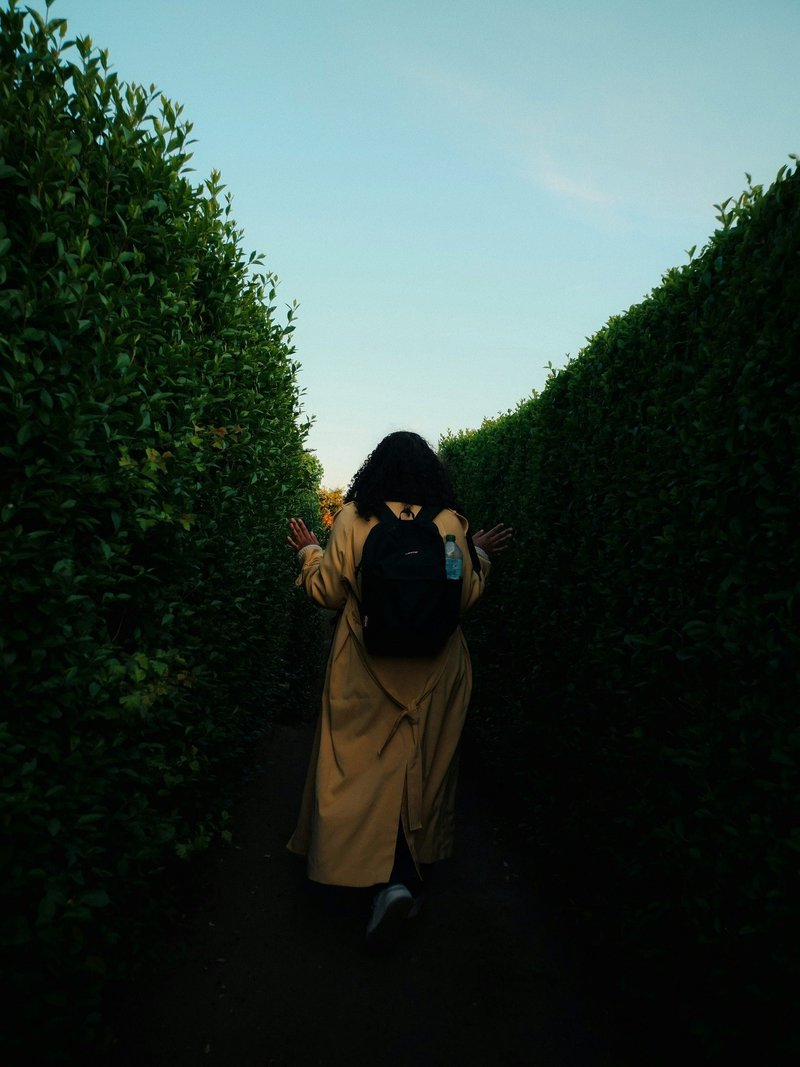
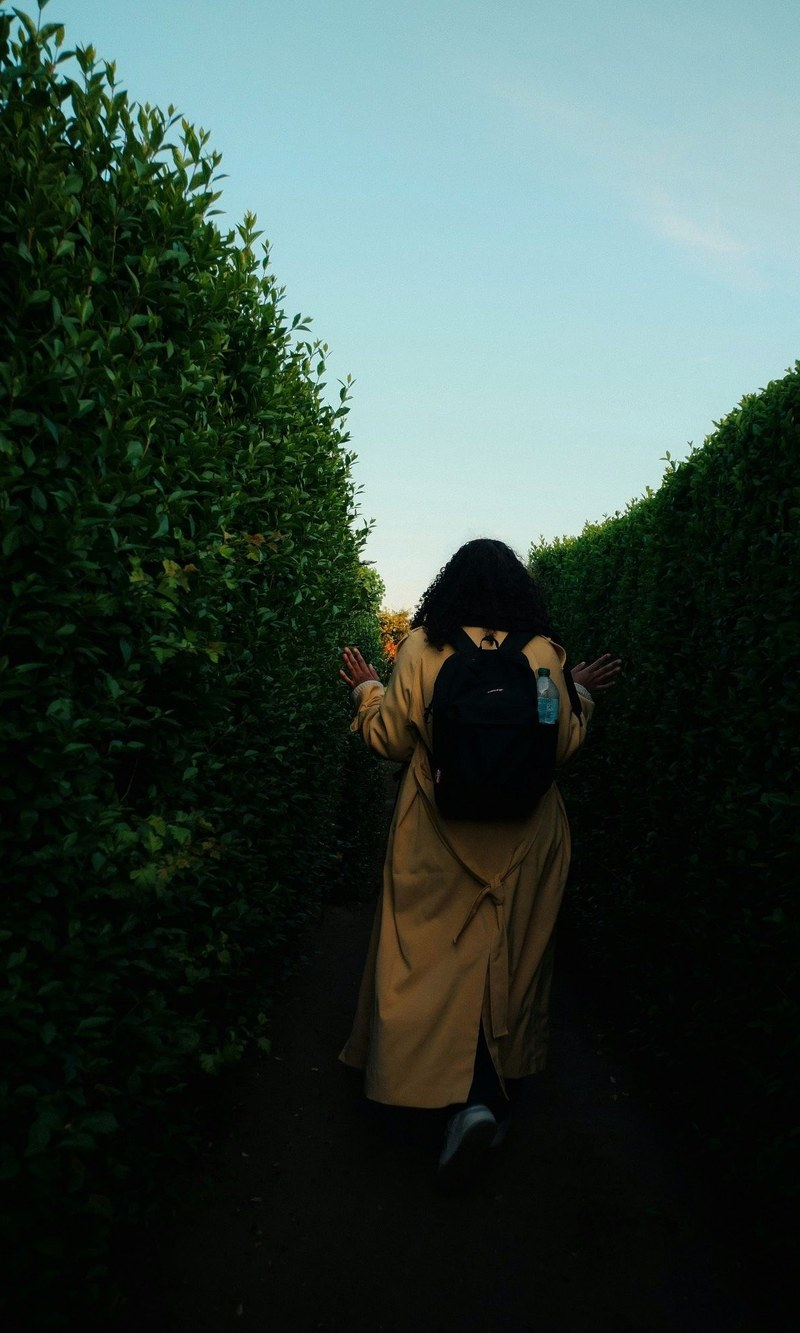
Labyrinth: woman centred by crop, headline top right in the sky

diff --git a/styles.css b/styles.css
@@ -215,13 +215,11 @@ a.card:hover /* Each card carries its page's headline on the photo, as the page 
 .photo-title.hl span { background: var(--pink); color: var(--white); padding: 0 0.16em; -webkit-box-decoration-break: clone; box-decoration-break: clone; }
 
 /* Per photo, mobile first then desktop. Each headline is set as large as its open space allows. */
-.ph-labyrinth .photo-title { top: var(--inset); bottom: auto; left: 57%; transform: translateX(-50%); text-align: center; width: max-content; font-size: 26px; } /* the only exception: the maze's sky is narrow on phones */
 .ph-pillars .photo-title { top: var(--inset); bottom: auto; transform: none; } /* caryatids: in the open sky top left */
 .ph-sisyphus .photo-title { top: var(--inset); bottom: auto; max-width: 6.6em; }
 .ph-ships .photo-title { top: var(--inset); bottom: auto; left: auto; right: var(--inset); text-align: right; } /* top right, clear of the moon */
 .ph-crossroads .photo-title { left: 50%; top: 50%; bottom: auto; transform: translate(-50%, -50%); text-align: center; width: max-content; }
 .ph-404 .photo-title { top: var(--inset); bottom: auto; }
-.pos-labyrinth { object-position: 50% 6%; }
 .pos-pillars { object-position: 0% 0%; }
 .pos-sisyphus { object-position: 30% 50%; }
 .pos-plane { object-position: 50% 58%; }
@@ -230,10 +228,8 @@ a.card:hover /* Each card carries its page's headline on the photo, as the page 
 .pos-404 { object-position: 50% 20%; }
 @media (min-width: 760px) { .pos-404 { object-position: 50% 42%; } }
 @media (min-width: 760px) {
-  .ph-labyrinth .photo-title { left: 56%; top: 5%; }
   .ph-sisyphus .photo-title { top: 50%; transform: translateY(-50%); max-width: none; }
   .br-d { display: block; } /* desktop: one or two words a line so the headline fills the left side */
-  .pos-labyrinth { object-position: 50% 26%; }
   .pos-sisyphus { object-position: 62% 50%; }
 }
 .opener-text { padding: 0 var(--pad); }
@@ -313,8 +309,6 @@ html.lenis, html.lenis body { height: auto; }
   /* every photo re-framed for the square, headline in its open space, one size */
   .photo-title { font-size: var(--t-display); left: var(--inset); right: auto; top: var(--inset); bottom: auto; transform: none; text-align: left; width: auto; max-width: 9em; white-space: normal; }
   .opener-photo img { width: 100%; height: 100%; margin: 0; }
-  .ph-labyrinth .photo-title { left: 58%; transform: translateX(-50%); text-align: center; width: max-content; max-width: none; top: 4%; font-size: var(--t-display); }
-  .pos-labyrinth { object-position: 50% 12%; }
   .pos-pillars { object-position: 0% 0%; }
   .ph-pillars .photo-title { top: 22px; left: 28px; bottom: auto; transform: none; max-width: none; font-size: clamp(30px, 2.6vw, 38px); }
   .pos-sisyphus { object-position: 0% 50%; }
@@ -357,3 +351,11 @@ a.card:hover .card-photo:has(.pos-pillars) .card-hint, a.card:focus-visible .car
 .ph-crowd .photo-title { top: var(--inset); bottom: auto; } /* top left, on the bright ceiling */
 .pos-crowd { object-position: 50% 62%; }
 @media (min-width: 960px) { .pos-crowd { object-position: 50% 60%; } .ph-crowd .photo-title { max-width: none; } }
+
+/* Labyrinth: photo cropped so the woman is centred; headline top right in the open sky, right-aligned */
+.ph-labyrinth .photo-title { top: var(--inset); bottom: auto; left: auto; right: var(--inset); transform: none; text-align: right; width: auto; max-width: none; font-size: 30px; }
+.pos-labyrinth { object-position: 50% 10%; }
+@media (min-width: 960px) {
+  .ph-labyrinth .photo-title { top: 4%; right: 5%; font-size: var(--t-display); }
+  .pos-labyrinth { object-position: 50% 22%; }
+}

diff --git a/index.html b/index.html
@@ -120,7 +120,7 @@
   <main id="main">
     <section class="opener" aria-labelledby="home-title">
       <div class="opener-photo ph-labyrinth">
-        <img class="pos-labyrinth" src="assets/img/labyrinth-full.jpg" srcset="assets/img/labyrinth-800.jpg 800w, assets/img/labyrinth-full.jpg 1500w" sizes="(min-width: 1240px) 1130px, 100vw" alt="A woman with a backpack walks between tall hedges in a maze" width="1500" height="2000" decoding="async">
+        <img class="pos-labyrinth" src="assets/img/labyrinth-full.jpg" srcset="assets/img/labyrinth-800.jpg 800w, assets/img/labyrinth-full.jpg 1200w" sizes="(min-width: 1240px) 1130px, 100vw" alt="A woman with a backpack walks between tall hedges in a maze" width="1200" height="2000" decoding="async">
         <h1 class="photo-title ink" id="home-title">Lost in the<br> labyrinth?<br> We'll guide<br> you through.</h1>
       </div>
       <div class="opener-text">

diff --git a/CLAUDE.md b/CLAUDE.md
@@ -25,7 +25,7 @@ Website for Delos Recruitment Ltd, a specialist recruitment-to-recruitment (rec2
 - Headline font is Gloock (free, SIL Open Font Licence). Never use Erstoria.
 - Never use em dashes or en dashes in copy. UK English. No emoji, no exclamation marks.
 - Team voice: Delos speaks as "we" so it reads as more than one person. No "I", no personal "about Maria" section, no photos of people from Maria's life.
-- Campaign images (agreed with Maria, Oct 2026): Greek myth themed photos with a short headline set into the image, no logo on the images (the DELOS wordmark was removed; its corner now holds the button), no pink highlights, no nudity, no generative AI images. Free Unsplash licence photos, saved full frame in `assets/img` as `<name>-full.jpg` (up to 2000px) and `<name>-800.jpg`, framed per image with `object-position`. Current set: labyrinth (Home), pillars (Hiring hero and Home Hiring card), Sisyphus (Careers hero) and small plane (Careers, below "Thinking about a move into recruitment?", the falling-into-recruitment section), crowd (About: commuters walking through a bright white hall, one in a camel coat; Maria's choice; dark headline top left on the ceiling), ships (Contact), 404 marker sign (404: Maria's own photo). All photos share one clean finish baked into the files (see Layout). Headlines are signed off by Maria; don't change them without asking. Page headlines (Oct 2026): Home "Lost in the labyrinth? We'll guide you through.", Hiring "Relationships that stand the test of time.", Careers "Pushing the same boulder every quarter?" and "Did you fall into recruitment? We'll help you fly.", About "Never just a face in the crowd." (commuters in a white hall), Contact "Ships passing in the night? Not with us." (hook: "Let's find a time that suits you.") On scroll the question or statement lands first and the answer follows. Each campaign photo IS its section (`.story`): the photo runs edge to edge in full colour, its line is the section headline set in white along the bottom of the photo (one soft dark shade at the foot of every photo), on the same column as the words directly beneath, so photo, headline and text read as one piece. No buttons or text boxes on photos. Every page opens the same way: a photo hero at the same height with the page headline (h1) on it. Home labyrinth ("Everything you have heard about recruitment is a myth."), Hiring pillars ("Relationships that stand the test of time."), Careers small plane ("Did you fall into recruitment? We'll help you fly.") plus Sisyphus as the experienced-recruiter section, About Mykonos alley ("About Delos Recruitment"), Contact ships ("Ships passing in the night? Not with us."), 404 Mykonos. Layout (24 Oct 2026, final with Maria): magazine spread on desktop (960px+): square photo (7fr) beside its words (5fr), the Careers second story swaps sides; text sections below sit on the same two columns (title left 5fr, content right 7fr). Phones stack photo then words. Every photo headline is one size, in the photo's open space, never over the subject; white headlines sit LOW on the photo, dark (ink) headlines sit HIGH. Four type sizes only: --t-display (all headlines), --t-heading (myths, quotes, step and card titles), --t-body, --t-small. The hook under each photo is the body font (not Gloock), slightly larger; paragraphs beneath are slate-500. Home cards and reviews are editorial (no boxes); each card's page headline fades in on its photo on hover (always shown on touch), no extra links. Caryatids (Unsplash fJ7dY66Jpec, whole porch, blue sky) headline sits in the open sky top left. Labyrinth: keep the photo exactly as it is (no shadow lift or extra grading). Plane (Careers): Maria's light aircraft in clear blue sky, white headline low. Ships (Contact): Maria's single red cargo ship at dusk with the moon; dark headline top right, clear of the moon. Desktop uses exactly four sizes (42, 25, 18, 16px); on phones only the labyrinth and caryatids headlines drop to 26px because their sky is narrow. Photos: clean natural finish (saturation x0.94, slight warmth, no grain, no lifted blacks); never a faded film or Tumblr look. 404 photo: roadside 404 marker sign in a field (Maria's own photo). Buttons and photo corners 4px. The variety of subjects is deliberate; the shared frame, position, type and shade make them one series. Motion: the photo opens like a raised blind, settles, then drifts gently with scroll; the headline lands and the words follow. Reduced motion shows everything still.
+- Campaign images (agreed with Maria, Oct 2026): Greek myth themed photos with a short headline set into the image, no logo on the images (the DELOS wordmark was removed; its corner now holds the button), no pink highlights, no nudity, no generative AI images. Free Unsplash licence photos, saved full frame in `assets/img` as `<name>-full.jpg` (up to 2000px) and `<name>-800.jpg`, framed per image with `object-position`. Current set: labyrinth (Home), pillars (Hiring hero and Home Hiring card), Sisyphus (Careers hero) and small plane (Careers, below "Thinking about a move into recruitment?", the falling-into-recruitment section), crowd (About: commuters walking through a bright white hall, one in a camel coat; Maria's choice; dark headline top left on the ceiling), ships (Contact), 404 marker sign (404: Maria's own photo). All photos share one clean finish baked into the files (see Layout). Headlines are signed off by Maria; don't change them without asking. Page headlines (Oct 2026): Home "Lost in the labyrinth? We'll guide you through.", Hiring "Relationships that stand the test of time.", Careers "Pushing the same boulder every quarter?" and "Did you fall into recruitment? We'll help you fly.", About "Never just a face in the crowd." (commuters in a white hall), Contact "Ships passing in the night? Not with us." (hook: "Let's find a time that suits you.") On scroll the question or statement lands first and the answer follows. Each campaign photo IS its section (`.story`): the photo runs edge to edge in full colour, its line is the section headline set in white along the bottom of the photo (one soft dark shade at the foot of every photo), on the same column as the words directly beneath, so photo, headline and text read as one piece. No buttons or text boxes on photos. Every page opens the same way: a photo hero at the same height with the page headline (h1) on it. Home labyrinth ("Everything you have heard about recruitment is a myth."), Hiring pillars ("Relationships that stand the test of time."), Careers small plane ("Did you fall into recruitment? We'll help you fly.") plus Sisyphus as the experienced-recruiter section, About Mykonos alley ("About Delos Recruitment"), Contact ships ("Ships passing in the night? Not with us."), 404 Mykonos. Layout (24 Oct 2026, final with Maria): magazine spread on desktop (960px+): square photo (7fr) beside its words (5fr), the Careers second story swaps sides; text sections below sit on the same two columns (title left 5fr, content right 7fr). Phones stack photo then words. Every photo headline is one size, in the photo's open space, never over the subject; white headlines sit LOW on the photo, dark (ink) headlines sit HIGH. Four type sizes only: --t-display (all headlines), --t-heading (myths, quotes, step and card titles), --t-body, --t-small. The hook under each photo is the body font (not Gloock), slightly larger; paragraphs beneath are slate-500. Home cards and reviews are editorial (no boxes); each card's page headline fades in on its photo on hover (always shown on touch), no extra links. Caryatids (Unsplash fJ7dY66Jpec, whole porch, blue sky) headline sits in the open sky top left. Labyrinth: original colours, cropped only so the woman is centred (1200x2000); headline right-aligned top right in the sky. No shadow lift or extra grading. Plane (Careers): Maria's light aircraft in clear blue sky, white headline low. Ships (Contact): Maria's single red cargo ship at dusk with the moon; dark headline top right, clear of the moon. Desktop uses exactly four sizes (42, 25, 18, 16px); on phones only the labyrinth and caryatids headlines drop to 26px because their sky is narrow. Photos: clean natural finish (saturation x0.94, slight warmth, no grain, no lifted blacks); never a faded film or Tumblr look. 404 photo: roadside 404 marker sign in a field (Maria's own photo). Buttons and photo corners 4px. The variety of subjects is deliberate; the shared frame, position, type and shade make them one series. Motion: the photo opens like a raised blind, settles, then drifts gently with scroll; the headline lands and the words follow. Reduced motion shows everything still.
 - Speak directly to the reader ("you", "your business"). Hiring speaks to clients, Careers to candidates. About describes the business.
 - Stress thoroughness, never speed ("quick", "fast", "efficient").
 - Reviews: keep to two or three, quoted word for word, credited by role (for example "Candidate, Google review"), never by name.
